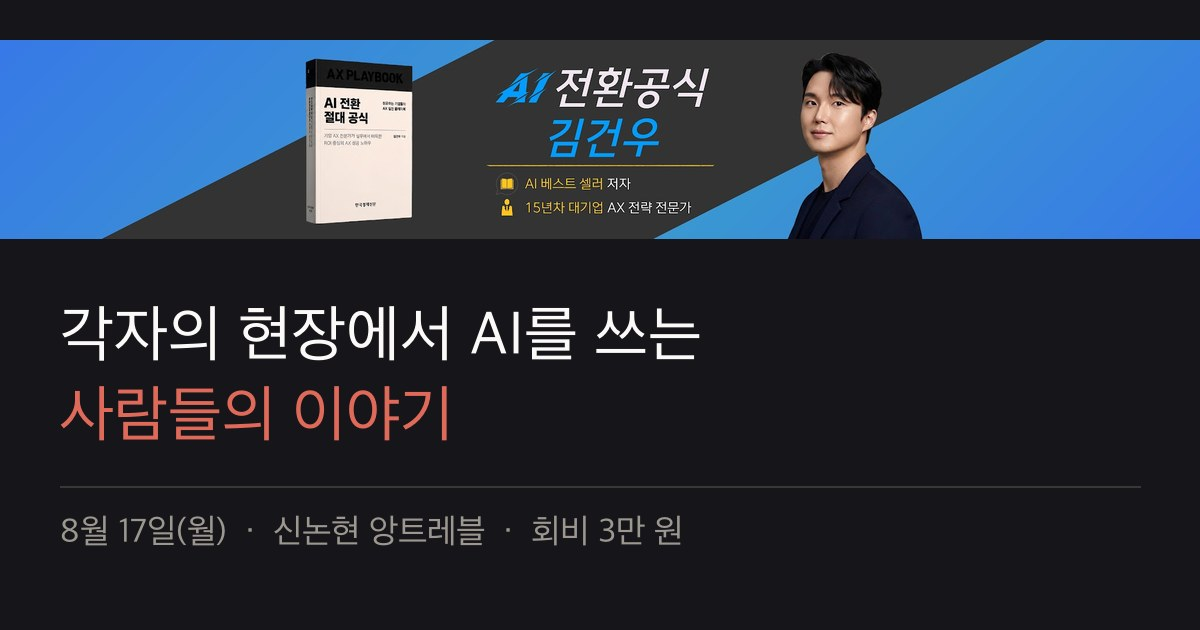
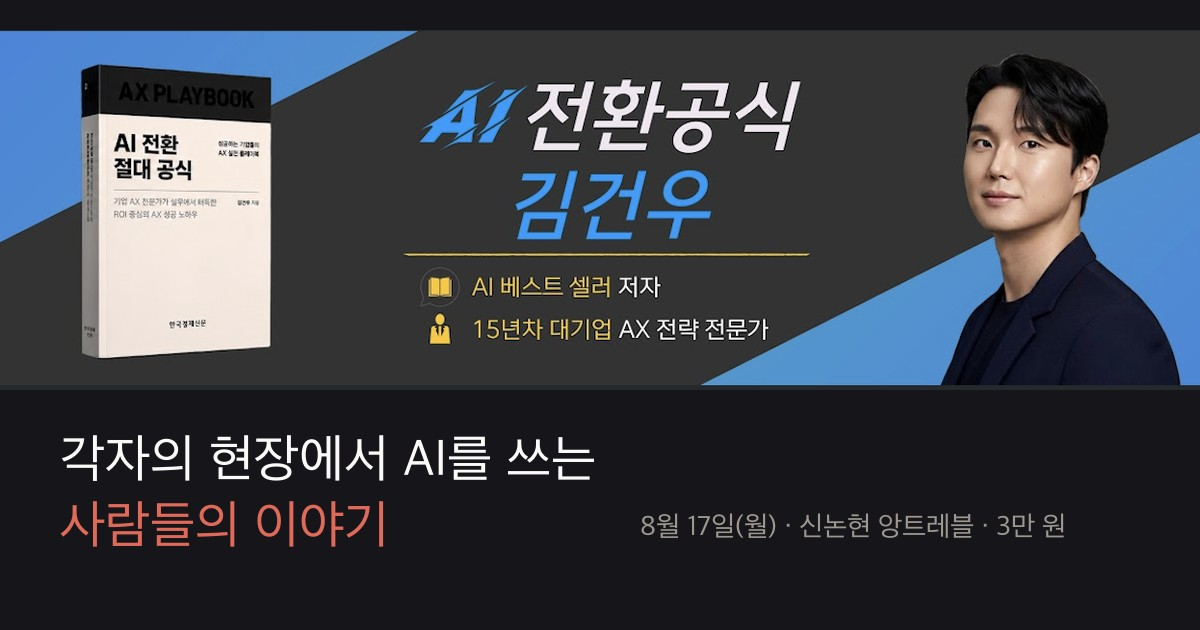
배너 원본을 PNG로 교체하고 CTA 문구를 '지금 신청하기'로 통일

diff --git a/index.html b/index.html
@@ -122,7 +122,7 @@
       <div class="meta-row"><span class="meta-key">회비</span><span class="meta-val">3만 원</span></div>
     </div>
 
-    <a class="cta" style="margin-top:22px" href="https://forms.gle/f6nq8THHL8sFcgTc7">신청하기 <span style="font-size:14px">→</span></a>
+    <a class="cta" style="margin-top:22px" href="https://forms.gle/f6nq8THHL8sFcgTc7">지금 신청하기 <span style="font-size:14px">→</span></a>
   </section>
 
   <!-- 특별 초빙 연사 -->
@@ -163,7 +163,7 @@
       <div class="talk"><span class="talk-no">05</span><div><div class="talk-title">AI 시대에 반드시 알아야 할 안전과 윤리</div><div class="talk-by">강익선 · 13기</div></div></div>
       <div class="talk"><span class="talk-no">06</span><div><div class="talk-title">55세 은퇴 기획자, AI로 전환하다</div><div class="talk-by">신진영 · 8기</div></div></div>
     </div>
-    <a class="cta-ghost" style="margin-top:24px" href="https://forms.gle/f6nq8THHL8sFcgTc7">자리 신청하기 →</a>
+    <a class="cta-ghost" style="margin-top:24px" href="https://forms.gle/f6nq8THHL8sFcgTc7">지금 신청하기 →</a>
   </section>
 
   <!-- 이번 한정 혜택 -->
